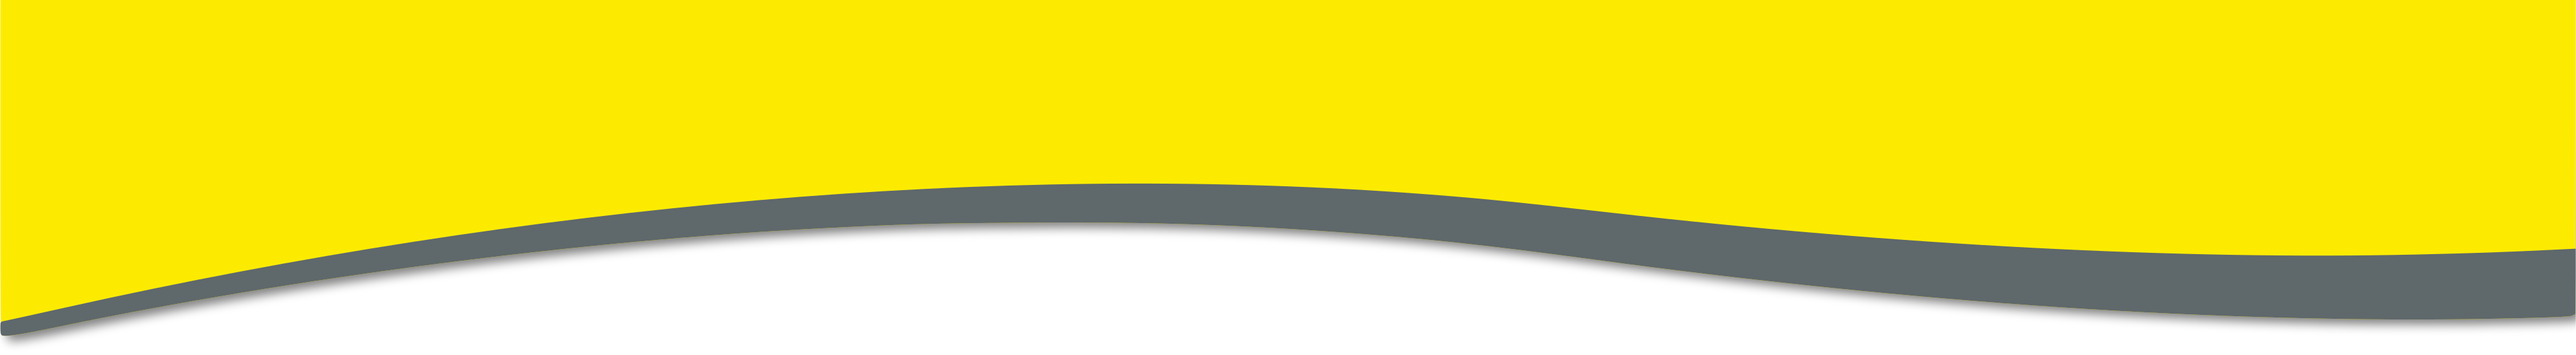
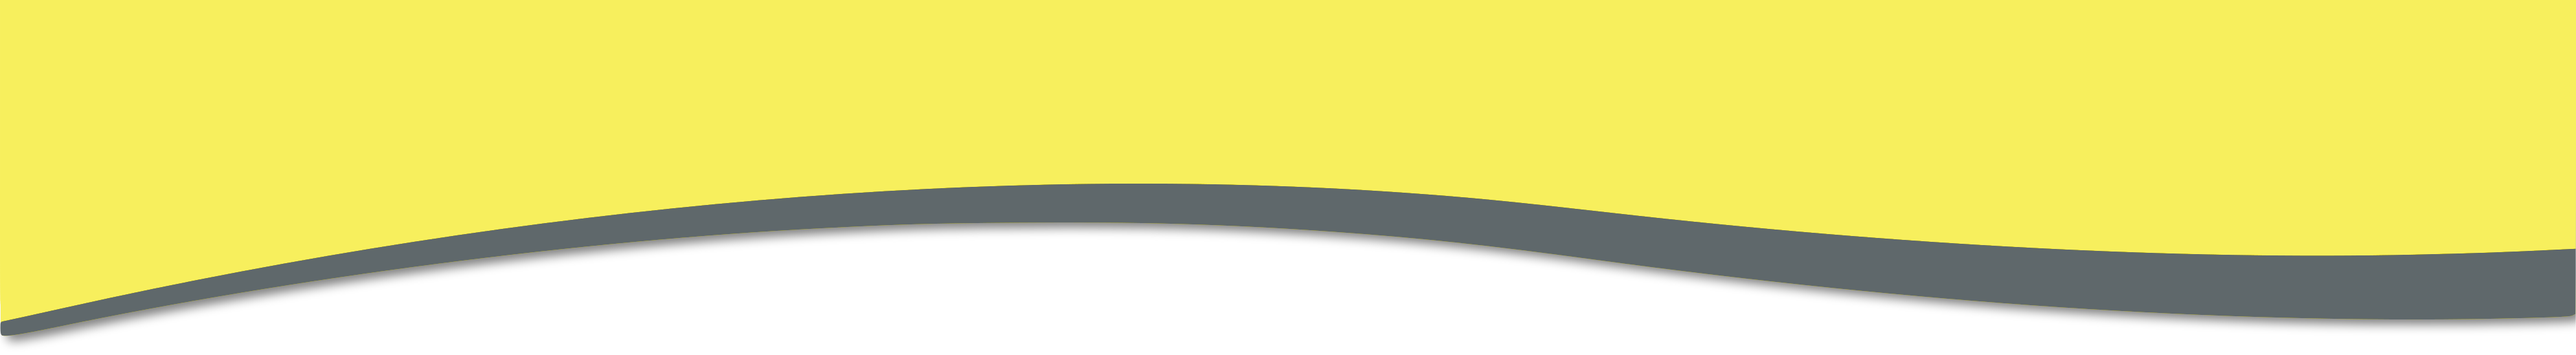
Update yellow

diff --git a/src/app/app.component.scss b/src/app/app.component.scss
@@ -23,7 +23,7 @@
     --magenta: rgb(224,5,140);
     --orange: rgb(255,167,0);
     --orange-light: rgb(255, 207, 117);
-    --yellow: rgb(230,220,0);
+    --yellow: hsl(57, 91%, 67%);
  }
 
 ////////////////////
